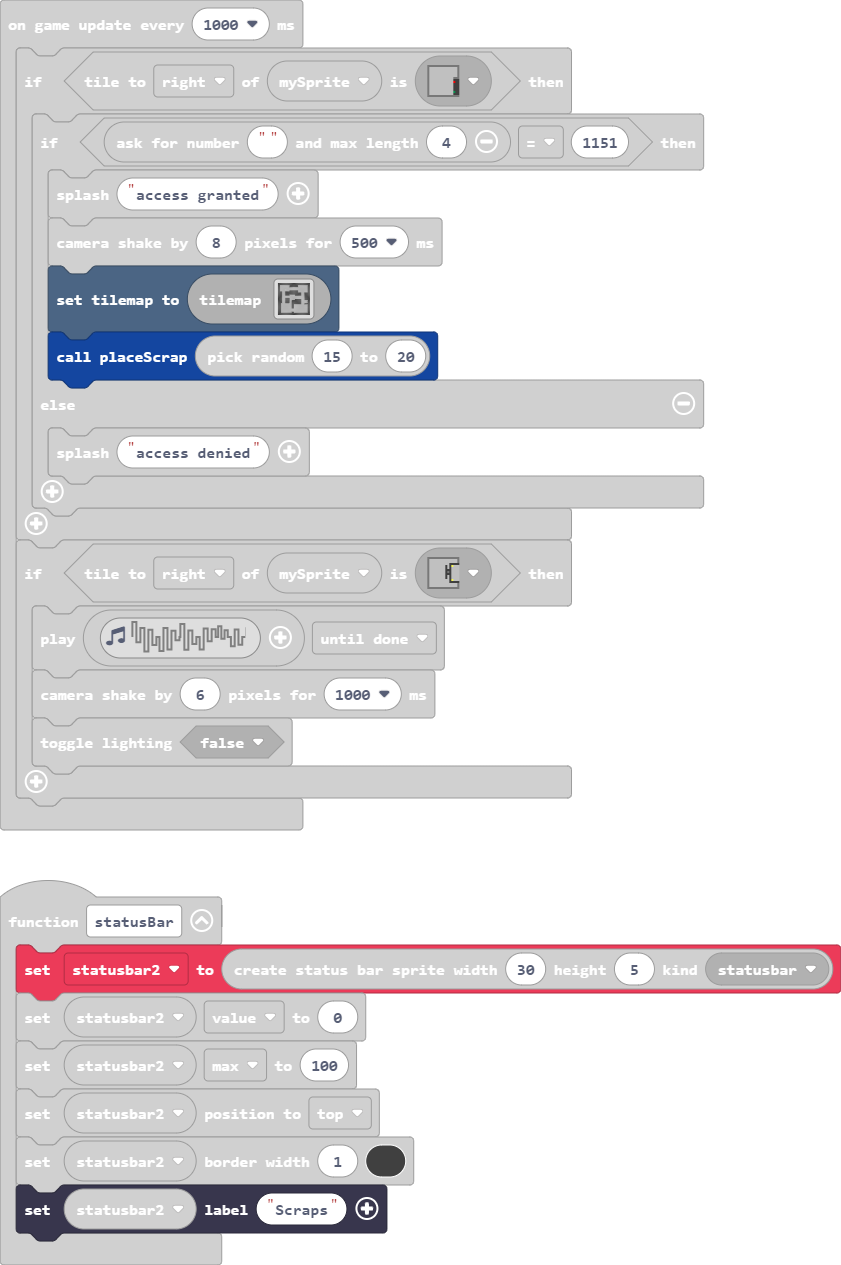
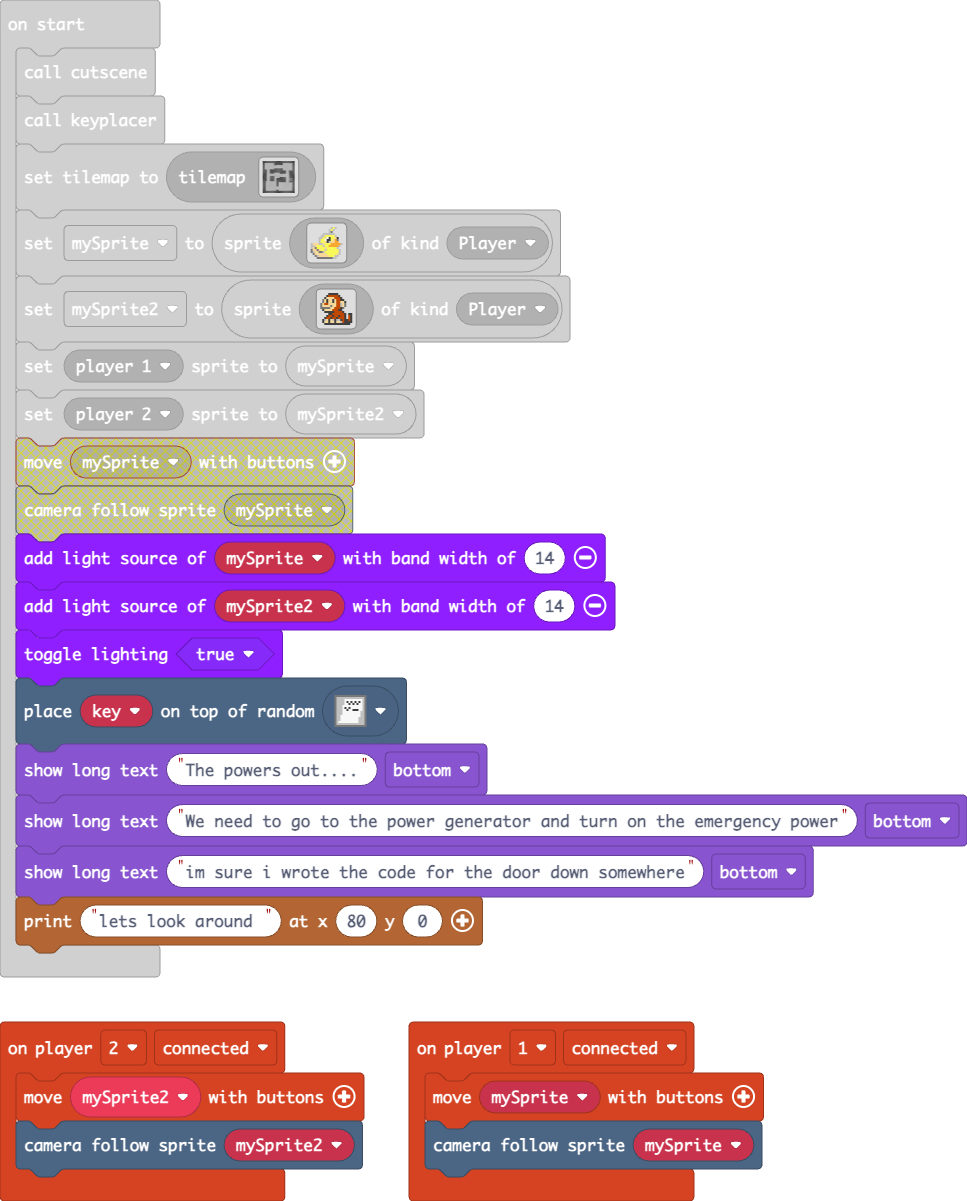
Update main.blocks, main.ts

diff --git a/main.ts b/main.ts
@@ -43,6 +43,10 @@ function cutscene () {
     sprites.destroy(meteor)
     sprites.destroy(spaceship)
 }
+controller.player2.onEvent(ControllerEvent.Connected, function () {
+    controller.moveSprite(mySprite2)
+    scene.cameraFollowSprite(mySprite2)
+})
 function placeScrap (num: number) {
     if (100 > statusbar2.value) {
         for (let index = 0; index < 7; index++) {
@@ -91,6 +95,10 @@ function placeScrap (num: number) {
         statusbar2.value += num
     }
 }
+controller.player1.onEvent(ControllerEvent.Connected, function () {
+    controller.moveSprite(mySprite)
+    scene.cameraFollowSprite(mySprite)
+})
 let scrap3: Sprite = null
 let scrap2: Sprite = null
 let scrap: Sprite = null
@@ -99,12 +107,13 @@ let spaceship: Sprite = null
 let meteor: Sprite = null
 let statusbar2: StatusBarSprite = null
 let key: Sprite = null
+let mySprite2: Sprite = null
 let mySprite: Sprite = null
 cutscene()
 keyplacer()
 tiles.setCurrentTilemap(tilemap`map in doors`)
 mySprite = sprites.create(assets.image`duck`, SpriteKind.Player)
-let mySprite2 = sprites.create(img`
+mySprite2 = sprites.create(img`
     . . . . f f f f f . . . . . . . 
     . . . f e e e e e f . . . . . . 
     . . f d d d d e e e f . . . . . 
@@ -124,8 +133,6 @@ let mySprite2 = sprites.create(img`
     `, SpriteKind.Player)
 mp.setPlayerSprite(mp.playerSelector(mp.PlayerNumber.One), mySprite)
 mp.setPlayerSprite(mp.playerSelector(mp.PlayerNumber.Two), mySprite2)
-controller.moveSprite(mySprite)
-scene.cameraFollowSprite(mySprite)
 multilights.addLightSource(mySprite, 14)
 multilights.addLightSource(mySprite2, 14)
 multilights.toggleLighting(true)
